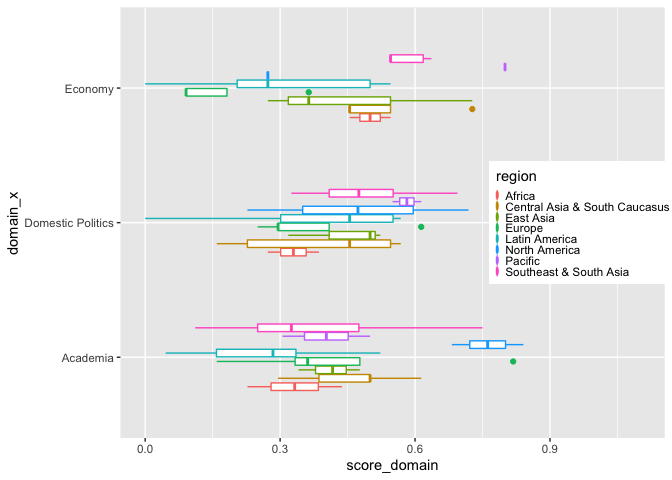
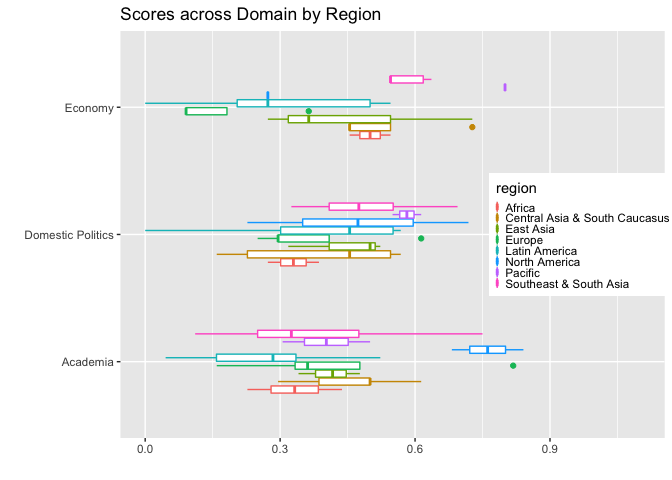
plot revised, add title

diff --git a/China_Index.md b/China_Index.md
@@ -126,7 +126,8 @@ china_index_domain %>%
   ggplot(aes(x = domain_x, y = score_domain)) + 
   geom_boxplot(aes(color = region), width = 0.5) + 
   coord_flip() + ylim(0,1.1) + 
-  theme(legend.position = c(0.85,0.5), legend.key.size = unit(0.05, "cm"))
+  theme(legend.position = c(0.85,0.5), legend.key.size = unit(0.05, "cm")) +
+  labs(title = "Scores across Domain by Region", x = "", y = "")
 ```
 
 ![](China_Index_files/figure-gfm/plot-1.png)<!-- -->
@@ -136,7 +137,8 @@ china_index_domain %>%
   filter(domain_x == c("Foreign Policy", "Law Enforcement", "Media")) %>%
   ggplot(aes(x = domain_x, y = score_domain)) + geom_boxplot(aes(color = region), width = 0.5) + 
   coord_flip() + ylim(0,1.1) +
-  theme(legend.position = c(0.85,0.3), legend.key.size = unit(0.05, "cm"))
+  theme(legend.position = c(0.85,0.3), legend.key.size = unit(0.05, "cm")) +
+  labs(title = "Scores across Domain by Region", x = "", y = "")
 ```
 
 ![](China_Index_files/figure-gfm/plot-2.png)<!-- -->
@@ -146,7 +148,8 @@ china_index_domain %>%
   filter(domain_x == c("Military", "Society", "Technology")) %>%
   ggplot(aes(x = domain_x, y = score_domain)) + geom_boxplot(aes(color = region), width = 0.5) + 
   coord_flip() + ylim(0,1.1) +
-   theme(legend.position = c(0.85,0.5), legend.key.size = unit(0.05, "cm"))
+  theme(legend.position = c(0.85,0.5), legend.key.size = unit(0.05, "cm")) +
+  labs(title = "Scores across Domain by Region", x = "", y = "")
 ```
 
 ![](China_Index_files/figure-gfm/plot-3.png)<!-- -->
